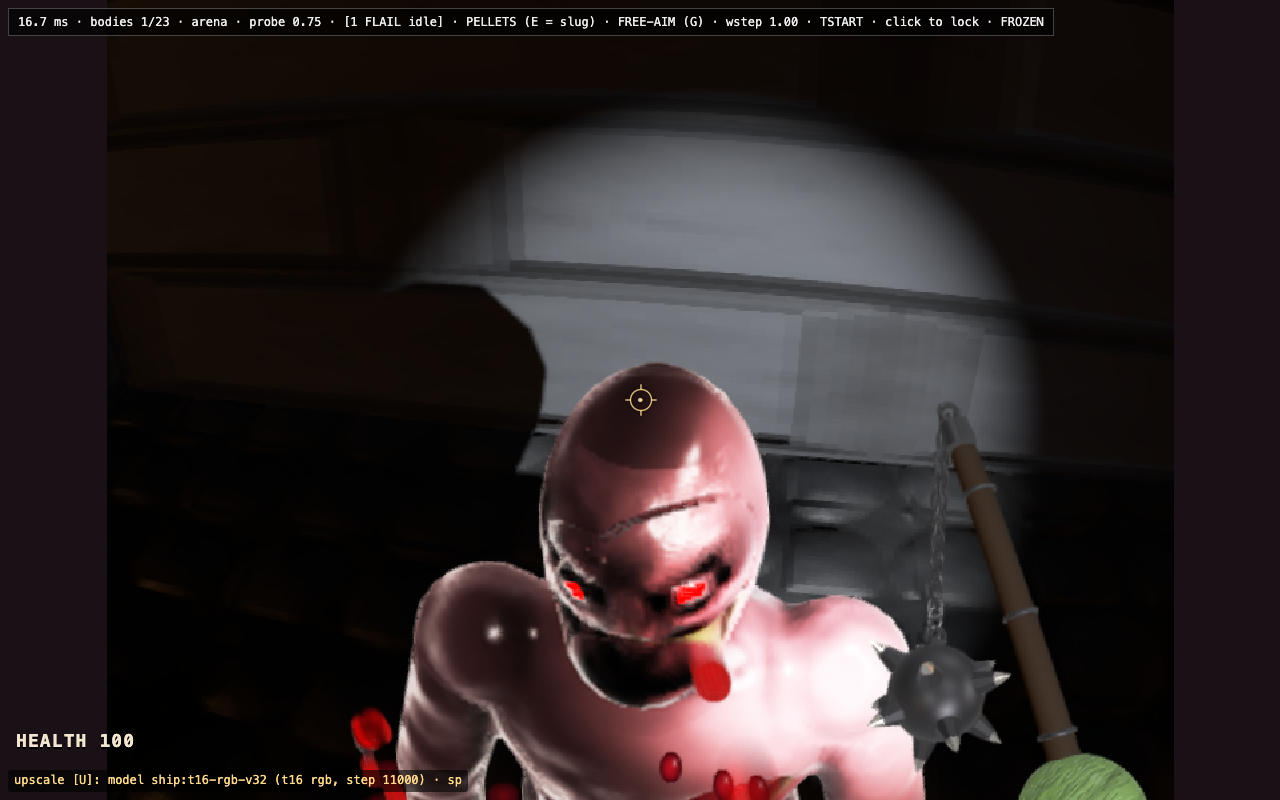
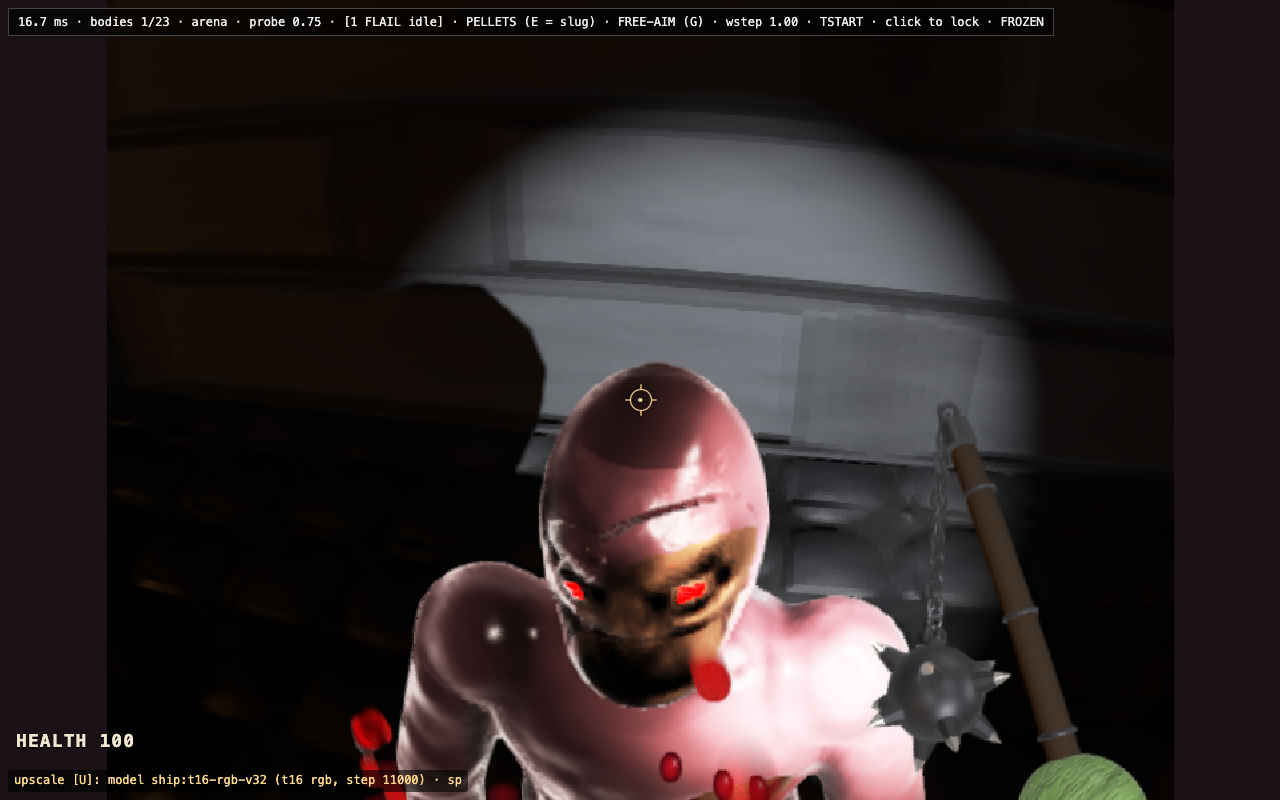
fix(bone): restore bone colour on the procedural skeleton path
Root cause: 00194a001 deleted the bone albedo branch (and bone's matte
wet factor) as dead code when bone tubes landed, but the tubes stayed off
by default and packBones stayed on wherever the procedural skeleton is
drawn (?skeleton=procedural, deferred mode, every marched flesh chunk).
Bone rows kept winning the fold inside craters and shaded as plain meat:
the procedural crown bone share after the scalp hit was flat,
0.0036 -> 0.0036.

Restored as deleted (organ block: boneStain toward deepColor; wet block:
select(1.0, 0.25, isBone)), with two measured adaptations:
- stain weight 0.22 instead of 0.55 (the mesh skeleton's head stain
  strength): the skull sits inside the 0.012 m junction band everywhere,
  so 0.55 painted the whole plate red-brown and the share stayed 0.0036;
  at 0.22 it reads tan, 0.0036 -> 0.0159 (mesh path 0.0057 -> 0.0310).
- bone is exempt from the chunk gore mask: at a torn end wm ~1 drove the
  mask to ~0.85 and repainted a severed arm's bone stub dark clot
  (~rgb 125,47,38); exempt, it reads tan.

Mesh-path actors pack no bone rows, so their bodies are unchanged (head
gate mesh photos identical but for blood-spray and chunk-compile timing
noise). Refreshed the two procedural head-gate photos.

Changed region(s): [[0.4375, 0.6562, 0.5938, 0.8438], [0.5312, 0.9688, 0.5938, 1.0], [0.5, 0.875, 0.5312, 0.9062]]

diff --git a/src/lab/sdf-zombie/webgpu/march/body/blocks/post/organ.wgsl.ts b/src/lab/sdf-zombie/webgpu/march/body/blocks/post/organ.wgsl.ts
@@ -18,10 +18,24 @@ export const ORGAN_BLOCK = /* wgsl */ `  // NO TORN-FIBRE PASS. It shipped in wo
   // material code in primScale.w — W_ORGAN is 5, and only applyBones can
   // claim bestIdx for an inside-flesh row because foldGroup and applyCarves
   // skip the range entirely — so this is an identity read, not a guess from
-  // depth or radius. (Bone tubes: op 'bone' prims no longer reach the field
-  // when packBones is off — the bone ALBEDO branch this used to feed is
-  // deleted with them; a packed bone row still wins the fold identically
-  // under the default packBones-on layout, it just shades as plain meat.)
+  // depth or radius. W_BONE is 4, W_ORGAN is 5.
+  //
+  // BONE ALBEDO, RESTORED (head damage spec §14, 2026-09-28). 00194a001
+  // deleted the bone branch below as dead code when bone tubes landed, but
+  // the tubes stayed off by default: packBones stayed ON wherever the
+  // procedural skeleton is drawn (?skeleton=procedural, every deferred-mode
+  // actor, and every marched flesh chunk), so bone rows kept winning the fold
+  // inside craters and shaded as plain meat — the procedural crown after a
+  // scalp hit read 0.0036 bone share before and after. Restored as deleted
+  // (the stain toward the meat, and the matte gloss in the wet block) with ONE
+  // change: the stain weight is 0.22, not 0.55. The skull sits inside the
+  // 0.012 m junction band everywhere, so at 0.55 the whole plate took the full
+  // stain and read red-brown (crown bone share still 0.0036 -> 0.0036); 0.22
+  // is the mesh skeleton's head stain strength (meshBoneSurface), and reads
+  // tan (0.0036 -> 0.0159). Deep limb bone sits past the band and is clean
+  // either way. The mesh skeleton path packs no bone rows on its ACTORS, so
+  // its bodies never reach this branch; its marched flesh chunks still pack
+  // bone rows (detached pieces keep procedural bones) and take it too.
   // hitBest is -1 on the baked-volume path (no dominant prim), so clamp the
   // row index and gate on it, like the painted-prim read below. Gated on wm
   // (gore r3 refinement 5): an inside-flesh prim can only ever be dominant
@@ -36,10 +50,19 @@ export const ORGAN_BLOCK = /* wgsl */ `  // NO TORN-FIBRE PASS. It shipped in wo
   if ((wm > 0.0 || gInstMelt.x > 0.0 || gInstCounts2.y > 0.5) && hitBest >= 0) {
     hitMat = textureLoad(data, vec2<i32>(hitBest, ${ROW_PRIM_SCALE} + gBand), 0).w;
   }
-  let isOrgan = hitMat > 4.5 && hitMat < 5.5;
-  // W_BONE is 4 — the dominant row is a packed bone prim (bones still fold
-  // under the default packBones-on layout). Only consulted by the melt ramp.
   let isBone = hitMat > 3.5 && hitMat < 4.5;
+  if (isBone) {
+    // Stained toward the meat at the junction. A clean plate popping out of
+    // red flesh reads as a decal; blood in the transition is what seats it.
+    // tissueDepth is the PRE-wound flesh field, so on a bone pixel it measures
+    // how deeply this bone sits beneath the original skin: bone just under
+    // the muscle line is near the wall flesh and stains, a deep plate stays
+    // clean.
+    let boneStain = 1.0 - smoothstep(0.0, 0.012, tissueDepth - surfCfg3.z);
+    albedo = mix(boneColor, deepColor * 0.8, clamp(boneStain, 0.0, 1.0) * 0.22);
+  }
+  // Organs share the load and the gate; only the code differs (organs r3).
+  let isOrgan = hitMat > 4.5 && hitMat < 5.5;
   if (isOrgan) {
     // Pale, wet, and NOT stained toward the meat: viscera is already wet
     // and already the same family of colour as the flesh around it. organAmp

diff --git a/src/lab/sdf-zombie/webgpu/march/body/blocks/post/organ.wgsl.test.ts b/src/lab/sdf-zombie/webgpu/march/body/blocks/post/organ.wgsl.test.ts
@@ -21,19 +21,29 @@ describe('bone material (wound pass r2)', () => {
     expect(SHADE_BODY).not.toContain('woundFibre');
   });
 
-  it('no longer stains bone toward deepColor — the branch is GONE (bone tubes)', () => {
-    // Bone tubes (2026-09-02 plan task 3): op 'bone' prims leave the marched
-    // field for instanced analytic tubes, so the bone albedo branch was
-    // deleted, not orphaned. Asserted as ABSENCE so it cannot quietly return.
-    expect(SHADE_BODY).not.toContain('boneStain');
+  it('stains bone toward deepColor where it meets flesh (restored, spec §14)', () => {
+    // 00194a001 deleted this branch as dead code for bone tubes, but bone
+    // rows stayed packed on the procedural skeleton path and shaded as meat.
+    // Head damage spec §14 (owner, 2026-09-28) restores it for every weapon,
+    // at the mesh head's stain weight 0.22 (0.55 painted the shallow skull
+    // red-brown).
+    expect(SHADE_BODY).toContain('let boneStain = 1.0 - smoothstep(0.0, 0.012, tissueDepth - surfCfg3.z);');
+    expect(SHADE_BODY).toContain('albedo = mix(boneColor, deepColor * 0.8, clamp(boneStain, 0.0, 1.0) * 0.22);');
+    // Bone is matte: the wet line damps it, as before the deletion.
+    expect(SHADE_BODY).toContain('select(1.0, 0.25, isBone) * select(1.0, 1.8, isOrgan)');
+    // Before the organ tint and the melt, so organAmp and the melt's pale
+    // ramp still act on top of it.
+    const bone = SHADE_BODY.indexOf('if (isBone) {');
+    expect(bone).toBeGreaterThan(-1);
+    expect(SHADE_BODY.indexOf('if (isOrgan) {')).toBeGreaterThan(bone);
+    expect(SHADE_BODY.indexOf('if (isBone && bonePaleU > 0.0) {')).toBeGreaterThan(bone);
   });
 
   it('identifies bone by material code for the melt ramp AND a rupture', () => {
-    // Bone tubes deleted the old always-on bone albedo branch, and it stays
-    // deleted: bone is identified again, but its only consumers are the melt's
-    // pale-vs-wet-red split (zombie melt task 6) and the body-to-gib rupture's
-    // exposed skeleton. Both need the material read because the bone wins the
-    // fold with no wound to key on.
+    // Beyond the bone albedo (restored above), the melt's pale-vs-wet-red
+    // split (zombie melt task 6) and the body-to-gib rupture's exposed
+    // skeleton read isBone too. Both need the material read widened past the
+    // wm gate because the bone wins the fold with no wound to key on.
     expect(SHADE_BODY).toContain('let isBone = hitMat > 3.5 && hitMat < 4.5;');
     expect(SHADE_BODY).toContain('if ((wm > 0.0 || gInstMelt.x > 0.0 || gInstCounts2.y > 0.5) && hitBest >= 0)');
     // Bone paleness is gated on bonePaleU = max(bareBoneU, meltU); the FLESH

diff --git a/src/lab/sdf-zombie/chunk-bake-field.ts b/src/lab/sdf-zombie/chunk-bake-field.ts
@@ -21,13 +21,13 @@
 //                            drops — noted in the task report).
 //   bones/organs ........... hard min, ONLY where some wound's r < depth*2 —
 //                            the applyBones nearWound gate verbatim. A bone
-//                            that won the min shades AS PLAIN MEAT in the
-//                            march (the bone albedo branch was deleted when
-//                            bone tubes landed; isBone only feeds the melt
-//                            ramp), so the bake paints it as meat too — the
-//                            bone matters here for the crater's SILHOUETTE
-//                            and crease, not its colour. Organs DO tint
-//                            (the isOrgan branch is alive) and are handled.
+//                            that won the min shades as BONE in the march
+//                            again (the bone albedo was restored 2026-09-28,
+//                            head damage spec §14), but the bake still paints
+//                            it as meat — the bone matters here for the
+//                            crater's SILHOUETTE and crease; its colour is
+//                            NOT mirrored yet. Organs DO tint (the isOrgan
+//                            branch) and are handled.
 //
 // The march's silhouette noise and the melt's volume displacement are NOT
 // mirrored — the baked surface is the clean field. On the game page the melt
@@ -184,9 +184,9 @@ export function chunkBakeField(parts: ChunkBakeParts): ChunkFieldEvals {
       // AFTER the carve, and a prim claims the surface when its own distance
       // at the hit is BELOW the field it joined — i.e. its iso was crossed
       // first. At a zero of the full field that is exactly "the point is
-      // INSIDE the bone/organ". Bone shades as plain meat in the march (the
-      // isBone branch only feeds the melt ramp), so the bake only ACTS on
-      // 'organ' — but the attribution itself is kept honest for tests.
+      // INSIDE the bone/organ". The bake only ACTS on 'organ' (the march's
+      // bone albedo, restored 2026-09-28, is not mirrored here yet) — but
+      // the attribution itself is kept honest for tests.
       if (!nearWound(p)) return 'flesh';
       const b = boneMin(p);
       if (b && b.d < 0) return b.organ ? 'organ' : 'bone';

diff --git a/src/lab/sdf-zombie/webgpu/march/body/blocks/post/gore.wgsl.test.ts b/src/lab/sdf-zombie/webgpu/march/body/blocks/post/gore.wgsl.test.ts
@@ -23,7 +23,9 @@ describe('ported features reach the entry point', () => {
     // TASK 2 (2026-09-16 follow-ups): the mask is attenuated by face coverage,
     // and the pass now runs AFTER the face layer, so a detached head keeps its
     // painted face instead of being mottled into a meat blob.
-    expect(MARCH_BODY).toContain('let goreStrength = max(lodCfg.w, gInstGore) * (1.0 - faceCover);');
+    // Spec §14 (2026-09-28): bone is exempt, so a severed limb's bone end
+    // keeps the restored bone albedo instead of going to clot.
+    expect(MARCH_BODY).toContain('let goreStrength = max(lodCfg.w, gInstGore) * (1.0 - faceCover) * select(1.0, 0.0, isBone);');
     expect(MARCH_BODY).toContain('faceCover = faceCover * tex.a;');
     // The head's non-face exterior keeps a bounded share of the gore, so the
     // head is not a meat blob from the back either, while the neck cut still
@@ -31,7 +33,7 @@ describe('ported features reach the entry point', () => {
     expect(MARCH_BODY).toContain(`faceRegion * ${HEAD_EXTERIOR_GORE_KEEP}`);
     expect(MARCH_BODY).toContain('let faceRegion = 1.0 - smoothstep(1.30 * reach, 1.70 * reach, length(hs));');
     expect(MARCH_BODY.indexOf('if (faceCfg.x > 0.5) {'))
-      .toBeLessThan(MARCH_BODY.indexOf('let goreStrength = max(lodCfg.w, gInstGore) * (1.0 - faceCover);'));
+      .toBeLessThan(MARCH_BODY.indexOf('let goreStrength = max(lodCfg.w, gInstGore) * (1.0 - faceCover) * select(1.0, 0.0, isBone);'));
     expect(INSTANCE_STATE).toContain('gInstGore = (*inst)[base + ');
   });
 });

diff --git a/src/lab/sdf-zombie/webgpu/march/body/blocks/post/gore.wgsl.ts b/src/lab/sdf-zombie/webgpu/march/body/blocks/post/gore.wgsl.ts
@@ -19,7 +19,15 @@ export const GORE_BLOCK = /* wgsl */ `  // Gore mask (gobs-and-goo spec §2): ch
   // chunk views) and the per-instance record. The crowd shares ONE material, so
   // a doomed body in a crowd could not ramp its gore through lodCfg.w without
   // repainting the whole type; gInstGore carries its own ramp (REC_GORE).
-  let goreStrength = max(lodCfg.w, gInstGore) * (1.0 - faceCover);
+  //
+  // BONE IS EXEMPT (head damage spec §14, 2026-09-28): a severed limb shows an
+  // ivory bone end. At a torn end wm is ~1, so the mask ran to ~0.85 and
+  // painted the restored bone albedo back to dark clot (measured: a slug-
+  // severed arm's bone stub read rgb ~(125, 47, 38) with the mask, tan
+  // without). Bone carries its own junction stain (organ block), so it skips
+  // the mask, and with gore 0 it also skips the wet boost below — bone is
+  // matte.
+  let goreStrength = max(lodCfg.w, gInstGore) * (1.0 - faceCover) * select(1.0, 0.0, isBone);
   var gore = 0.0;
   if (goreStrength > 0.0) {
     let mottle = clamp(fbm(anchor * 6.0) * 0.5 + 0.5, 0.0, 1.0);

diff --git a/src/lab/sdf-zombie/webgpu/march/body/blocks/post/melt.wgsl.ts b/src/lab/sdf-zombie/webgpu/march/body/blocks/post/melt.wgsl.ts
@@ -15,10 +15,9 @@ export const MELT_BLOCK = /* wgsl */ `  // MELT (2026-09-03, task 6) — the wet
   // A dominant BONE row does the opposite: it goes PALE (boneColor, the
   // wound pass's exposed-bone colour) and stays matte — the wetness boost
   // below skips it. Pale matte bones sitting in wet red goo is the contrast
-  // this effect lives on, and before this branch a bone row winning the fold
-  // shaded as plain meat (the old bone-albedo branch was deleted with the
-  // bone-tubes pack flag), which would have reddened the very skeleton the
-  // melt exists to reveal.
+  // this effect lives on. (This branch was written while the organ block's
+  // bone albedo was deleted; that albedo is back, 2026-09-28, and this pulls
+  // the bone the rest of the way to the unstained boneColor.)
   //
   // meltCfg.x is 0 everywhere except a melting body and its released bone
   // chunks, so every other pixel shades bit-identical to before this existed.

diff --git a/src/lab/sdf-zombie/webgpu/game-seams-shell-diag.ts b/src/lab/sdf-zombie/webgpu/game-seams-shell-diag.ts
@@ -137,8 +137,9 @@ export function createShellDiagSeams(ctx: GameContext, d: ShellDiagDeps) {
       //
       //   * a bone piece renders pale only while its view carries
       //     `meltCfg.x = 1` — the pale matte branch in the melt ramp is the
-      //     ONLY thing in the shader that paints bone as bone (`isBone` alone
-      //     shades it as meat);
+      //     only thing that paints a wound-free bone piece as bone (the
+      //     restored `isBone` albedo needs the material read, which is gated
+      //     on wm > 0, a melt, or a bare-bone rupture);
       //   * and it only has bone to paint if its rows are PACKED
       //     (`counts2.x` = packed bone count), which `packBones = true` is what
       //     guarantees: with the bone-tube path's packBones off, a bone-only

diff --git a/src/lab/sdf-zombie/webgpu/deferred-sdf.test.ts b/src/lab/sdf-zombie/webgpu/deferred-sdf.test.ts
@@ -249,7 +249,7 @@ describe('legacy expansion preserved', () => {
   it('keeps the wet/glow hoist arithmetic-neutral: identical statements, ordered before the flashlight', () => {
     // The hoisted statements are verbatim — pin them in the shared section…
     expect(MARCH_BODY_SURFACE_PREP).toContain(
-      'var wet = mix(surfCfg2.x * mix(1.0, woundWetBoost, wetWound) * (1.0 - cm) * select(1.0, 1.8, isOrgan), 1.0, gloss);',
+      'var wet = mix(surfCfg2.x * mix(1.0, woundWetBoost, wetWound) * (1.0 - cm) * select(1.0, 0.25, isBone) * select(1.0, 1.8, isOrgan), 1.0, gloss);',
     );
     expect(MARCH_BODY_SURFACE_PREP).toContain(
       'let glow = faceGlowColor * faceGlow * faceCfg2.w\n           * flicker(faceCfg3.y, faceCfg3.x) * (1.0 - cm)',

diff --git a/src/lab/sdf-zombie/webgpu/march/body/blocks/surface/wet.wgsl.ts b/src/lab/sdf-zombie/webgpu/march/body/blocks/surface/wet.wgsl.ts
@@ -19,7 +19,7 @@ export const WET_BLOCK = /* wgsl */ `  // Wounds are wetter than the surrounding
   let lip = 1.0 - smoothstep(surfCfg3.z, surfCfg3.z * 3.0, tissueDepth);
   let wetWound = max(wm * lip, gore);
   let woundWetBoost = mix(1.6, 2.15, faceGlowRedOnly);
-  var wet = mix(surfCfg2.x * mix(1.0, woundWetBoost, wetWound) * (1.0 - cm) * select(1.0, 1.8, isOrgan), 1.0, gloss);
+  var wet = mix(surfCfg2.x * mix(1.0, woundWetBoost, wetWound) * (1.0 - cm) * select(1.0, 0.25, isBone) * select(1.0, 1.8, isOrgan), 1.0, gloss);
   // Melt wetness (task 6): liquefying flesh goes FULLY wet — the puddle
   // glistens. FLESH ONLY: bone stays matte (the anchor comment above — wet
   // skin reflects, wet bone just looks polished), and that matte-vs-wet

diff --git a/docs/superpowers/plans/2026-09-28-melee-head-damage.md b/docs/superpowers/plans/2026-09-28-melee-head-damage.md
@@ -863,12 +863,12 @@ State at `02fae287`:
 **Files:** `src/lab/sdf-zombie/webgpu/march/body/blocks/post/organ.wgsl.ts`, and whatever commit `00194a001`
 removed. Read `git show 00194a001` first.
 
-- [ ] **Restore the bone shading.** It was deleted as dead code while bone rows stayed packed in the field.
+- [x] **Restore the bone shading.** It was deleted as dead code while bone rows stayed packed in the field.
   Restore it so a surface hit on a bone row (`isBone`, `hitMat` 3.5–4.5) takes the bone colour, as the melt
   and burn blocks already do.
   - Keep the restored code as close to the deleted code as the current shader allows.
   - Update the comment that records the deletion.
-- [ ] **Verify.**
+- [x] **Verify.**
   - `npx tsc --noEmit`, and `npm test -- march organ zombie-gpu wgsl` (whatever covers the shader strings).
   - Run the head gate with `?skeleton=procedural`: the crown bone share after hit 3 must rise clearly (it is
     flat today at 0.0036 → 0.0036).
@@ -876,7 +876,7 @@ removed. Read `git show 00194a001` first.
     capture script, and look at it.
   - The flail gate passes. The default mesh path looks unchanged: compare the head gate's mesh-path photos
     before and after.
-- [ ] **Commit:** `fix(bone): restore bone colour on the procedural skeleton path`.
+- [x] **Commit:** `fix(bone): restore bone colour on the procedural skeleton path`.
 
 ### Task 10: The skull squashes and dents with the flesh
 
